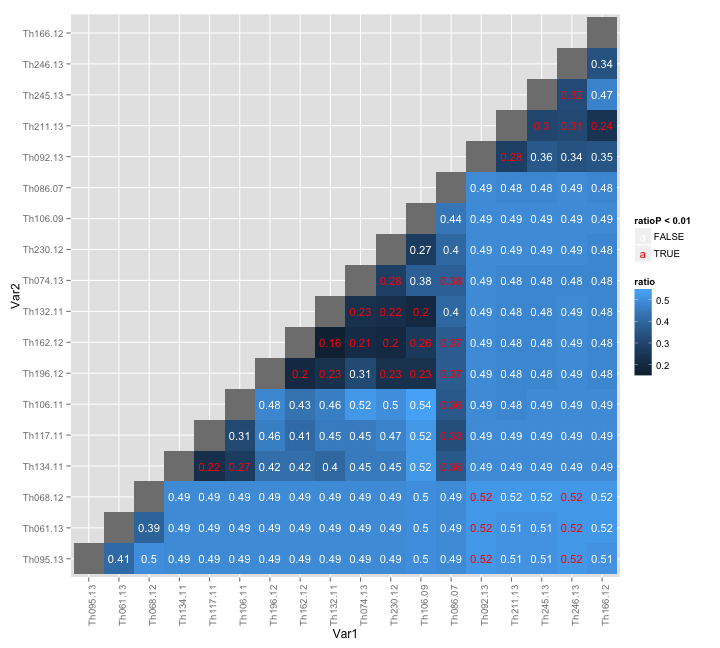
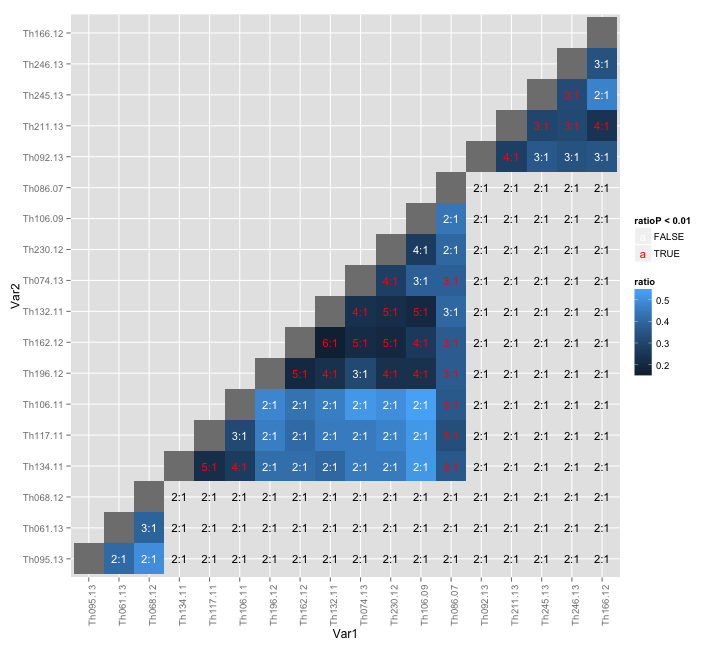
updating SNP/INDEL ratio graphs

diff --git a/reports/151119_thies_indelRatios_incSings/thies_indel_ratios.md b/reports/151119_thies_indelRatios_incSings/thies_indel_ratios.md
@@ -100,7 +100,7 @@ distances$ratio_t <- paste(round(distances$snp/distances$indel),1,sep=":")
 distances$ratio_t[is.na(distances$ratio)] <- NA
 
 
-snpRatioLM <- coef(lm(indel ~ snp, data = subset(distances,related=F)))
+snpRatioLM <- coef(lm(indel ~ snp, data = subset(distances,related=="UNRELATED")))
 unrelatedLM <- geom_abline(intercept=snpRatioLM[[1]],slope=snpRatioLM[[2]])
 
 #distances[as.numeric(distances$Var1) <= as.numeric(distances$Var2),]
@@ -168,7 +168,10 @@ ggplot(distances,aes(x=Var1,y=Var2,fill=interval_yrs)) + geom_tile() + vxlab
 
 ```r
 sigcol <- scale_color_manual(values=c("white","red"))
-ggplot(distances,aes(x=Var1,y=Var2,fill=ratio,label=ratio)) + geom_tile(size=1) + geom_text(aes(colour=ratioP < 0.01),size=4) + sigcol + vxlab
+#ggplot(distances,aes(x=Var1,y=Var2,fill=ratio,label=ratio)) + geom_tile(size=1) + geom_text(aes(colour=ratioP < 0.01),size=4) + sigcol + vxlab
+ggplot(subset(distances,related=="RELATED"),aes(x=Var1,y=Var2,fill=ratio,label=ratio_t)) + geom_tile(size=1) + 
+  geom_text(aes(colour=ratioP < 0.01),size=4) + 
+  geom_text(data=subset(distances,related=="UNRELATED"),size=4) + sigcol + vxlab
 ```
 
 ```
@@ -178,9 +181,12 @@ ggplot(distances,aes(x=Var1,y=Var2,fill=ratio,label=ratio)) + geom_tile(size=1) 
 ![plot of chunk unnamed-chunk-5](figure/unnamed-chunk-5-3.png) 
 
 ```r
-ggplot(subset(distances,related=="RELATED"),aes(x=Var1,y=Var2,fill=ratio,label=ratio_t)) + geom_tile(size=1) + 
+# ggplot(subset(distances,related=="RELATED"),aes(x=Var1,y=Var2,fill=total,label=ratio_t)) + geom_tile(size=1) + 
+#   geom_text(aes(colour=ratioP < 0.01),size=4) + 
+#   sigcol + vxlab
+ggplot(subset(distances,related=="RELATED"),aes(x=Var1,y=Var2,fill=interval_yrs,label=ratio_t)) + geom_tile(size=1) + 
   geom_text(aes(colour=ratioP < 0.01),size=4) + 
-  geom_text(data=subset(distances,related=="UNRELATED"),size=4) + sigcol + vxlab
+  sigcol + vxlab
 ```
 
 ```
@@ -250,8 +256,8 @@ ggplot(distances,aes(x=snp,y=indel,colour=related,group=related,label=clades)) +
 
 ```r
 #ggplot(distances,aes(x=snp,y=indel,colour=related,group=related,label=clades)) + geom_text(size=4) + unrelatedLM + facet_grid(. ~ related,scale="free")
-#ggplot(subset(distances,related==F),aes(x=snp,y=indel,colour=interval_yrs,group=related,label=clades)) + geom_text(size=4) + unrelatedLM + xlim(0,400) + ylim(0,400)
-#ggplot(subset(distances,related==T),aes(x=snp,y=indel,colour=interval_yrs,group=related,label=clades)) + geom_text(size=4) + unrelatedLM + xlim(0,400) + ylim(0,400)
+#ggplot(subset(distances,related=="UNRELATED"),aes(x=snp,y=indel,colour=interval_yrs,group=related,label=clades)) + geom_text(size=4) + unrelatedLM
+#ggplot(subset(distances,related=="RELATED"),aes(x=snp,y=indel,colour=interval_yrs,group=related,label=clades)) + geom_text(size=4) + unrelatedLM
 #ggplot(subset(distances,related==F),aes(x=snp,y=indel,colour=total,group=related)) + geom_point(size=4)
 ```
 
